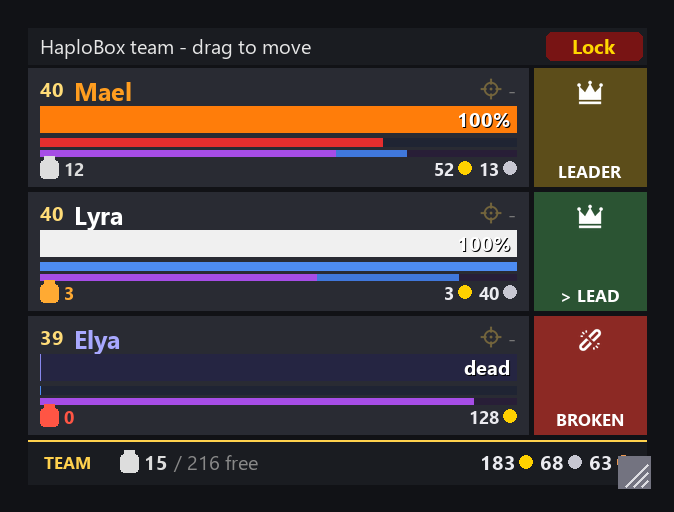
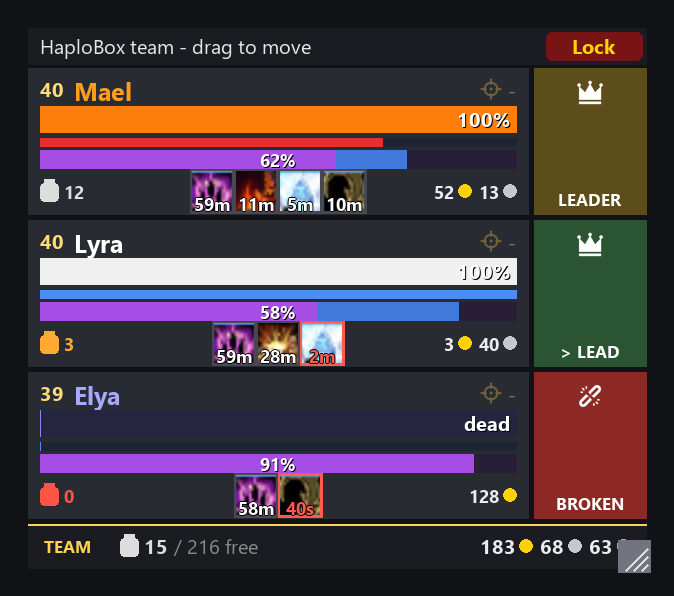
Show group buffs, a taller XP bar with a percentage, and set roles automatically
The team frame shows buffs cast by the group (a minute or longer) in the
middle of each row's bottom line, with the time left on each icon. A buff
with 2 minutes or less turns red; extra buffs show as +N. Buffs are read
from the unit directly, so no addon messages are needed.

The XP bar is 9 px tall and shows the XP percentage; rested XP is still the
blue part ahead of it.

Each toon now sets its party role and group finder roles from its team role,
and answers role polls. The options panel has a "This toon" section to pick
the role and to make the toon the leader, so no typing is needed.

Version 0.8.0.

Changed region(s): [[0.0312, 0.0312, 0.9659, 0.6875], [0.0312, 0.6875, 0.9659, 0.9688], [0.1246, 0.6562, 0.1869, 0.6875]]

diff --git a/docs/render_docs.py b/docs/render_docs.py
@@ -16,7 +16,8 @@ F_LABEL = font("segoeuib.ttf", 8.5)
 F_TITLE = font("segoeuib.ttf", 13)
 F_CAP = font("segoeui.ttf", 11)
 
-ROW_W, ROW_H, GAP, BOX_W = 250, 59, 3, 56  # 38 for name and bars + 21 for the info strip
+ROW_W, ROW_H, GAP, BOX_W = 250, 73, 3, 56  # 38 for name and bars + 12 XP bar + 23 bags/buffs/gold line
+XPH, BUFF = 9, 20
 FOOT_H = 22
 BG = (17, 18, 22)
 ROW_BG = (41, 43, 51)
@@ -34,6 +35,25 @@ FOCUS = (255, 209, 77)
 XP, RESTED, XP_BG = (166, 77, 230), (64, 120, 220), (40, 30, 55)
 COIN = {"g": (255, 209, 0), "s": (199, 199, 210), "c": (232, 150, 80)}
 F_TINY = font("segoeuib.ttf", 9)
+
+# buff icons cropped from the concept screenshot (above its baked-in timers)
+_concept = Image.open(os.path.join(REPO, "concept", "buffs.png")).convert("RGBA")
+BUFF_ICONS = [_concept.crop((x0 + 2, 52, x0 + 46, 88)) for x0 in (548, 605, 660, 715, 770)]
+
+def buffs(img, d, cx, cy, items):
+    """Buff icons with the time left on them, centred at (cx, cy)."""
+    n = len(items)
+    x = cx - (n * (BUFF + 2) - 2) / 2
+    for ic, t in items:
+        im = BUFF_ICONS[ic].resize((int(BUFF * K), int(BUFF * K)), Image.LANCZOS)
+        warn = t.endswith("s") or t in ("1m", "2m")
+        d.rectangle(S(x - 1, cy - BUFF / 2 - 1, x + BUFF + 1, cy + BUFF / 2 + 1), fill=(255, 90, 80) if warn else (70, 72, 82))
+        img.alpha_composite(im, (int(x * K), int((cy - BUFF / 2) * K)))
+        tx, ty = x + BUFF / 2, cy + BUFF / 2 - 4
+        for ox, oy in ((-0.7, 0), (0.7, 0), (0, -0.7), (0, 0.7)):
+            text(d, (tx + ox, ty + oy), t, F_TINY, (0, 0, 0), "mm")
+        text(d, (tx, ty), t, F_TINY, (255, 90, 80) if warn else (255, 255, 255), "mm")
+        x += BUFF + 2
 
 ICONS = {}
 def icon(name, size, color=(255, 255, 255), alpha=1.0):
@@ -120,11 +140,17 @@ def row(img, x, y, m):
     d.rectangle(S(hx, py, hx + hw * m["mp"] / 100, py + 4), fill=m.get("power", MANA))
     # info strip: XP (rested behind it), then bags left and gold right
     xy = py + 6
-    d.rectangle(S(hx, xy, hx + hw, xy + 3), fill=XP_BG)
+    d.rectangle(S(hx, xy, hx + hw, xy + XPH), fill=XP_BG)
     if m.get("xp") is not None:
-        d.rectangle(S(hx, xy, hx + hw * min(1, m["xp"] + m.get("rest", 0)), xy + 3), fill=RESTED)
-        d.rectangle(S(hx, xy, hx + hw * m["xp"], xy + 3), fill=XP)
-    ly = y + ROW_H - 9
+        d.rectangle(S(hx, xy, hx + hw * min(1, m["xp"] + m.get("rest", 0)), xy + XPH), fill=RESTED)
+        d.rectangle(S(hx, xy, hx + hw * m["xp"], xy + XPH), fill=XP)
+        label = "%d%%" % round(m["xp"] * 100)
+        text(d, (hx + hw / 2 + 0.5, xy + XPH / 2 + 0.5), label, F_TINY, (0, 0, 0), "mm")
+        text(d, (hx + hw / 2, xy + XPH / 2), label, F_TINY, (255, 255, 255), "mm")
+    ly = y + ROW_H - 11.5
+    if m.get("buffs"):
+        img.alpha_composite(Image.new("RGBA", (1, 1)), (0, 0))
+        buffs(img, d, x + ROW_W / 2, ly, m["buffs"])
     bag(d, hx, ly, m.get("free", 0), F_TINY)
     money(d, hx + hw, ly, m.get("copper", 0), F_TINY)
     # status box
@@ -170,11 +196,11 @@ def frame(rows, title=None, chrome=False, caption=None, pad=14):
     return img
 
 STATS = [
-    dict(lvl=40, xp=0.62, rest=0.15, copper=521307, free=12, slots=80),
-    dict(lvl=40, xp=0.58, rest=0.30, copper=34012, free=3, slots=64),
-    dict(lvl=39, xp=0.91, rest=0.0, copper=1281544, free=0, slots=72),
-    dict(lvl=40, xp=0.40, rest=0.10, copper=8520, free=25, slots=80),
-    dict(lvl=40, xp=0.12, rest=0.45, copper=170099, free=7, slots=80),
+    dict(lvl=40, xp=0.62, rest=0.15, copper=521307, free=12, slots=80, buffs=[(4, "59m"), (0, "11m"), (2, "5m"), (3, "10m")]),
+    dict(lvl=40, xp=0.58, rest=0.30, copper=34012, free=3, slots=64, buffs=[(4, "59m"), (1, "28m"), (2, "2m")]),
+    dict(lvl=39, xp=0.91, rest=0.0, copper=1281544, free=0, slots=72, buffs=[(4, "58m"), (3, "40s")]),
+    dict(lvl=40, xp=0.40, rest=0.10, copper=8520, free=25, slots=80, buffs=[(4, "58m"), (2, "5m")]),
+    dict(lvl=40, xp=0.12, rest=0.45, copper=170099, free=7, slots=80, buffs=[(4, "58m")]),
 ]
 
 def team(lyra, others, lyra_focus=None):

diff --git a/README.md b/README.md
@@ -29,8 +29,9 @@ Each row is one character:
 - **Level and name**, the name in its class colour.
 - **Health bar** with a percentage, or `dead` / `offline`.
 - **Power bar** in the right colour for mana, rage or energy.
-- **XP bar** in purple, with rested XP as a blue extension. Hidden at max level.
+- **XP bar** in purple with the percentage on it, and rested XP as a blue extension. Hidden at max level.
 - **Free bag slots** (bottom left). Amber at 5 or fewer, red when the bags are full.
+- **Buffs** (bottom middle) cast by your group, with the time left on each icon. Only buffs of a minute or longer, so procs, stances and food stay out. A buff with 2 minutes or less turns red. When there is no room, `+2` shows how many more there are.
 - **Gold** (bottom right), kept short: `128g`, `52g 13s`, `85s 20c`.
 - **Focus** (crosshair, top right): the target that character has on focus. A dash means no focus.
 - **Status box** (right side): who that character is following.
@@ -99,7 +100,7 @@ You get a confirmation: `sent to Bob via Haplina Darkheart`. Whispers between yo
 - **Invites:** followers accept group invites from the leader.
 - **Quests:** when the leader accepts a quest, it is shared with the group and the followers accept it. A failed share plays a sound and tells you why. Prefer every character to share? Set **Share quests I accept** to `all` in the options panel.
 - **Loot:** the leader sets free-for-all loot when someone joins, or on demand with `/hb ffa`. WoW Forever has no `/ffa` command.
-- **Role checks:** group finder role checks are answered with each character's team role.
+- **Roles:** each character sets its own party role (tank, healer or damage) and its group finder roles from its team role, answers role polls and answers group finder role checks.
 - **Optional:** followers leave the group when the leader leaves.
 
 Each feature has its own checkbox under **Options > AddOns > HaploBox** (or type `/hb options`).
@@ -110,8 +111,8 @@ Each feature has its own checkbox under **Options > AddOns > HaploBox** (or type
 
 1. **Install** HaploBox on every account (see [Install](#install)).
 2. **Group up** with your team.
-3. On the **leader**, type `/hb team`. The current group becomes your team and is sent to every character.
-4. On the **healer**, type `/hb role healer`.
+3. On the **leader**, open the options (**Options > AddOns > HaploBox**) and click **Make this toon the leader**. The current group becomes your team and is sent to every character. (Or type `/hb team`.)
+4. On each character, pick its role in the same panel: **tank**, **healer** or **dps**. The toon with the healer role is the one followers can follow. (Or type `/hb role healer`.)
 
 That's all. The leader alert, the team frame and the automation now know who is who. Swapped a character? Group the new team and run `/hb team` again.
 
@@ -129,7 +130,7 @@ That's all. The leader alert, the team frame and the automation now know who is 
 |---|---|
 | `/hb team` | On the leader, in a party: make this group the team and send it to every character. |
 | `/hb team show` | List the team, the leader and the roles. |
-| `/hb role tank\|healer\|dps` | Set your role. It is sent to the group. |
+| `/hb role tank\|healer\|dps` | Set your role (also in the options panel). It is sent to the group. |
 | `/hb leader [name]` | Set the leader by hand (no name: your target). |
 | `/hb status` | Show the leader, your role and the loot method. |
 
@@ -140,7 +141,7 @@ That's all. The leader alert, the team frame and the automation now know who is 
 | `/hb frame auto\|show\|hide` | Show the frame on this character: `auto` = only on the leader. |
 | `/hb frame lock\|unlock` | Lock it in place, or unlock it to move and resize. |
 | `/hb frame colors` | Turn class colours on or off. |
-| `/hb frame xp\|gold\|bags` | Show or hide level and XP, gold, or free bag slots. |
+| `/hb frame xp\|gold\|bags\|buffs` | Show or hide level and XP, gold, free bag slots, or buffs. |
 | `/hb frame scale 0.8` | Scale the whole frame (0.5 to 2). |
 | `/hb frame solo` | Also show the frame when you are not in a group. |
 | `/hb frame reset` | Put the frame back to its starting position and size. |
